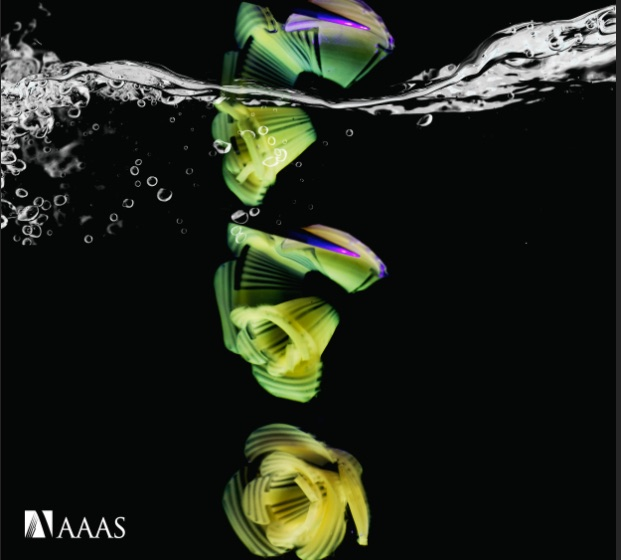
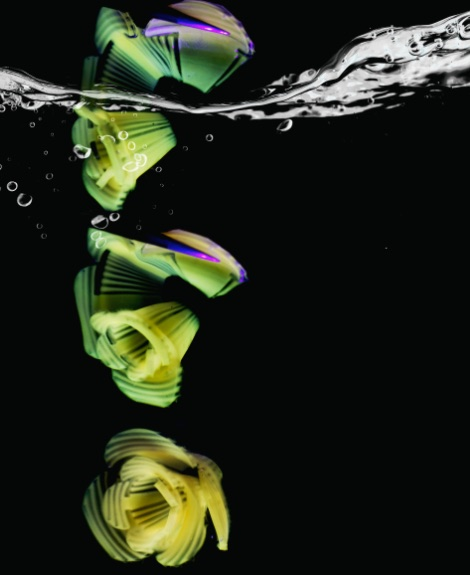
Add AI-enabled mechanics workflows as cross-cutting work; widen content pages
- Home: quiet full-width block below the three research cards, linking
  to the new Research section (main tagline and three themes unchanged)
- Research: intro now names the three scientific themes and points to the
  cross-cutting AI workflows section; new section added after the themes
- Content pages widened from 720px to 1050px; running text stays at a
  760px reading width while headings, figures, galleries and the
  publication list use the full width
- Re-cropped the pasta figure (removes publisher logo) and the
  rod-droplet figure (removes embedded title), and widened the latter

diff --git a/static/css/main.css b/static/css/main.css
@@ -288,6 +288,35 @@ a:focus-visible, button:focus-visible {
   line-height: 1.7;
 }
 
+/* ─── Cross-cutting block under the research cards ──────── */
+.crosscut {
+  margin-top: 16px;
+  padding: 20px 24px;
+  background: var(--bg-secondary);
+  border: 1px solid var(--border);
+  border-radius: var(--radius);
+}
+.crosscut-label {
+  font-size: 12px;
+  font-weight: 500;
+  letter-spacing: 0.08em;
+  text-transform: uppercase;
+  color: var(--text-tertiary);
+  margin-bottom: 6px;
+}
+.crosscut h3 {
+  font-size: 15px;
+  font-weight: 500;
+  margin-bottom: 6px;
+}
+.crosscut p {
+  font-size: 14px;
+  line-height: 1.7;
+  color: var(--text-secondary);
+  max-width: 900px;
+  margin-bottom: 10px;
+}
+
 /* ─── Journal Covers ─────────────────────────────────────── */
 .cover-grid {
   display: grid;
@@ -383,8 +412,13 @@ a:focus-visible, button:focus-visible {
 /* ─── Page Content ───────────────────────────────────────── */
 .page-content {
   padding: 52px 0;
-  max-width: 720px;
+  max-width: 1050px;
 }
+/* Long text keeps a comfortable reading width; headings, figures,
+   galleries and lists of items use the full content width. */
+.page-content > p,
+.page-content > ul,
+.page-content > ol { max-width: 760px; }
 .page-content h1 {
   font-family: var(--font-serif);
   font-size: 32px;
@@ -443,6 +477,16 @@ a:focus-visible, button:focus-visible {
   font-size: 13px;
   line-height: 1.6;
   color: var(--text-tertiary);
+}
+
+/* Small uppercase section label (eyebrow shortcode) */
+.page-content .eyebrow {
+  font-size: 12px;
+  font-weight: 500;
+  letter-spacing: 0.08em;
+  text-transform: uppercase;
+  color: var(--text-tertiary);
+  margin-bottom: 8px;
 }
 
 /* Outreach gallery */

diff --git a/layouts/index.html b/layouts/index.html
@@ -61,6 +61,14 @@
         <p>Mechanics models of living systems — somite formation, biofilm control — and bioinspired engineering design.</p>
       </a>
     </div>
+
+    <!-- Cross-cutting methodology, deliberately quieter than the theme cards -->
+    <div class="crosscut">
+      <div class="crosscut-label">Across all three themes</div>
+      <h3>AI-enabled mechanics workflows</h3>
+      <p>Across these research areas, we study how AI agents can assist computational mechanics — from setting up models and writing code to running simulations and checking results. Our focus is on workflows that make the evidence, assumptions, and verification visible to researchers rather than treating AI output as the final answer.</p>
+      <a href="{{ "/research/#ai-workflows" | relURL }}" class="section-link">Explore this work →</a>
+    </div>
   </div>
 </div>
 

diff --git a/layouts/_default/publications.html b/layouts/_default/publications.html
@@ -1,6 +1,6 @@
 {{ define "main" }}
 <div class="container">
-<div class="page-content" style="max-width:800px;">
+<div class="page-content">
 
 <h1>Publications</h1>
 <p style="font-size:13px;color:var(--text-tertiary);margin-bottom:8px;">

diff --git a/layouts/shortcodes/eyebrow.html b/layouts/shortcodes/eyebrow.html
@@ -1,0 +1,2 @@
+{{/* Small uppercase label above a section's text. Usage: {{< eyebrow >}}Across all three themes{{< /eyebrow >}} */}}
+<div class="eyebrow">{{ .Inner }}</div>

diff --git a/content/research.md b/content/research.md
@@ -4,7 +4,9 @@ title: "Research"
 
 # Research
 
-We use mechanics as an enabling tool — drawing on biological observation, building theoretical and computational models, and translating those models into engineered systems. The three threads below describe our current work. They are connected: many projects cross more than one thread.
+We use mechanics as an enabling tool — drawing on biological observation, building theoretical and computational models, and translating those models into engineered systems. The three scientific themes below describe our current work. They are connected: many projects cross more than one theme.
+
+Running across all three is a methodological effort on [AI-enabled mechanics workflows](#ai-workflows): how AI agents can take on more of the computational work while the evidence and verification stay visible to researchers.
 
 ---
 
@@ -28,7 +30,7 @@ How a surface sticks, releases, and interacts with liquids depends on its geomet
 
 These problems connect to real applications: coatings that resist bacterial growth, soft robots that grip and release objects, and bio-hybrid devices that work in wet environments.
 
-{{< fig src="img/research/rod-droplet-wrapping-sequence.jpg" alt="Time sequence of an elastic rod wrapping around a liquid droplet, from 0 to 1.33 seconds" caption="An elastic rod wraps around a liquid droplet (0 to 1.33 s), simulated with a coupled lattice–particle model." width="560" >}}
+{{< fig src="img/research/rod-droplet-wrapping-sequence.jpg" alt="Time sequence of an elastic rod wrapping around a liquid droplet, from 0 to 1.33 seconds" caption="An elastic rod wraps around a liquid droplet (0 to 1.33 s), simulated with a coupled lattice–particle model." width="760" >}}
 
 Key papers: *Advanced Functional Materials* (2023) · *Physical Review Fluids* (2025)
 
@@ -47,3 +49,17 @@ On the science side: we are building mechanics models of somite formation — th
 A third thread, in collaboration with Syracuse and ETH Zürich, uses magnetically driven surface topographies to fight bacterial biofilms on medical implants. A related project contributed to a soft robotic trunk, inspired by an elephant's, that helped a stroke patient open a cabinet and retrieve items from a refrigerator.
 
 Key papers: *Nature Communications* (2026) · *Advanced Functional Materials* (2025) · NSF CMMI (2025–2028)
+
+---
+
+## AI-enabled mechanics workflows {#ai-workflows}
+
+{{< eyebrow >}}Across all three themes{{< /eyebrow >}}
+
+*AI can do more of the workflow. Verification determines how much we should trust it.*
+
+AI agents can increasingly write scientific code, operate simulation tools, and analyze results. But producing a plausible result is different from producing a trustworthy mechanics result. We study how AI can be integrated into computational mechanics while keeping the models, assumptions, numerical evidence, and verification accessible to researchers.
+
+Our work focuses on human-verifiable workflows. An AI agent may help formulate a model, implement it, run simulations, compare alternatives, or diagnose problems, while independent checks are used to test whether the result is mechanically and numerically sound. The goal is not to replace mechanics expertise, but to change where researchers spend their effort: less on routine implementation and more on modeling choices, verification, interpretation, and new scientific questions.
+
+We are developing open computational tools and benchmark problems to study these workflows in finite-element, multiphysics, and related simulations. A particular interest is making scientific software easier for both people and AI agents to use: clear interfaces, reproducible examples, traceable evidence, and verification built into the workflow.
